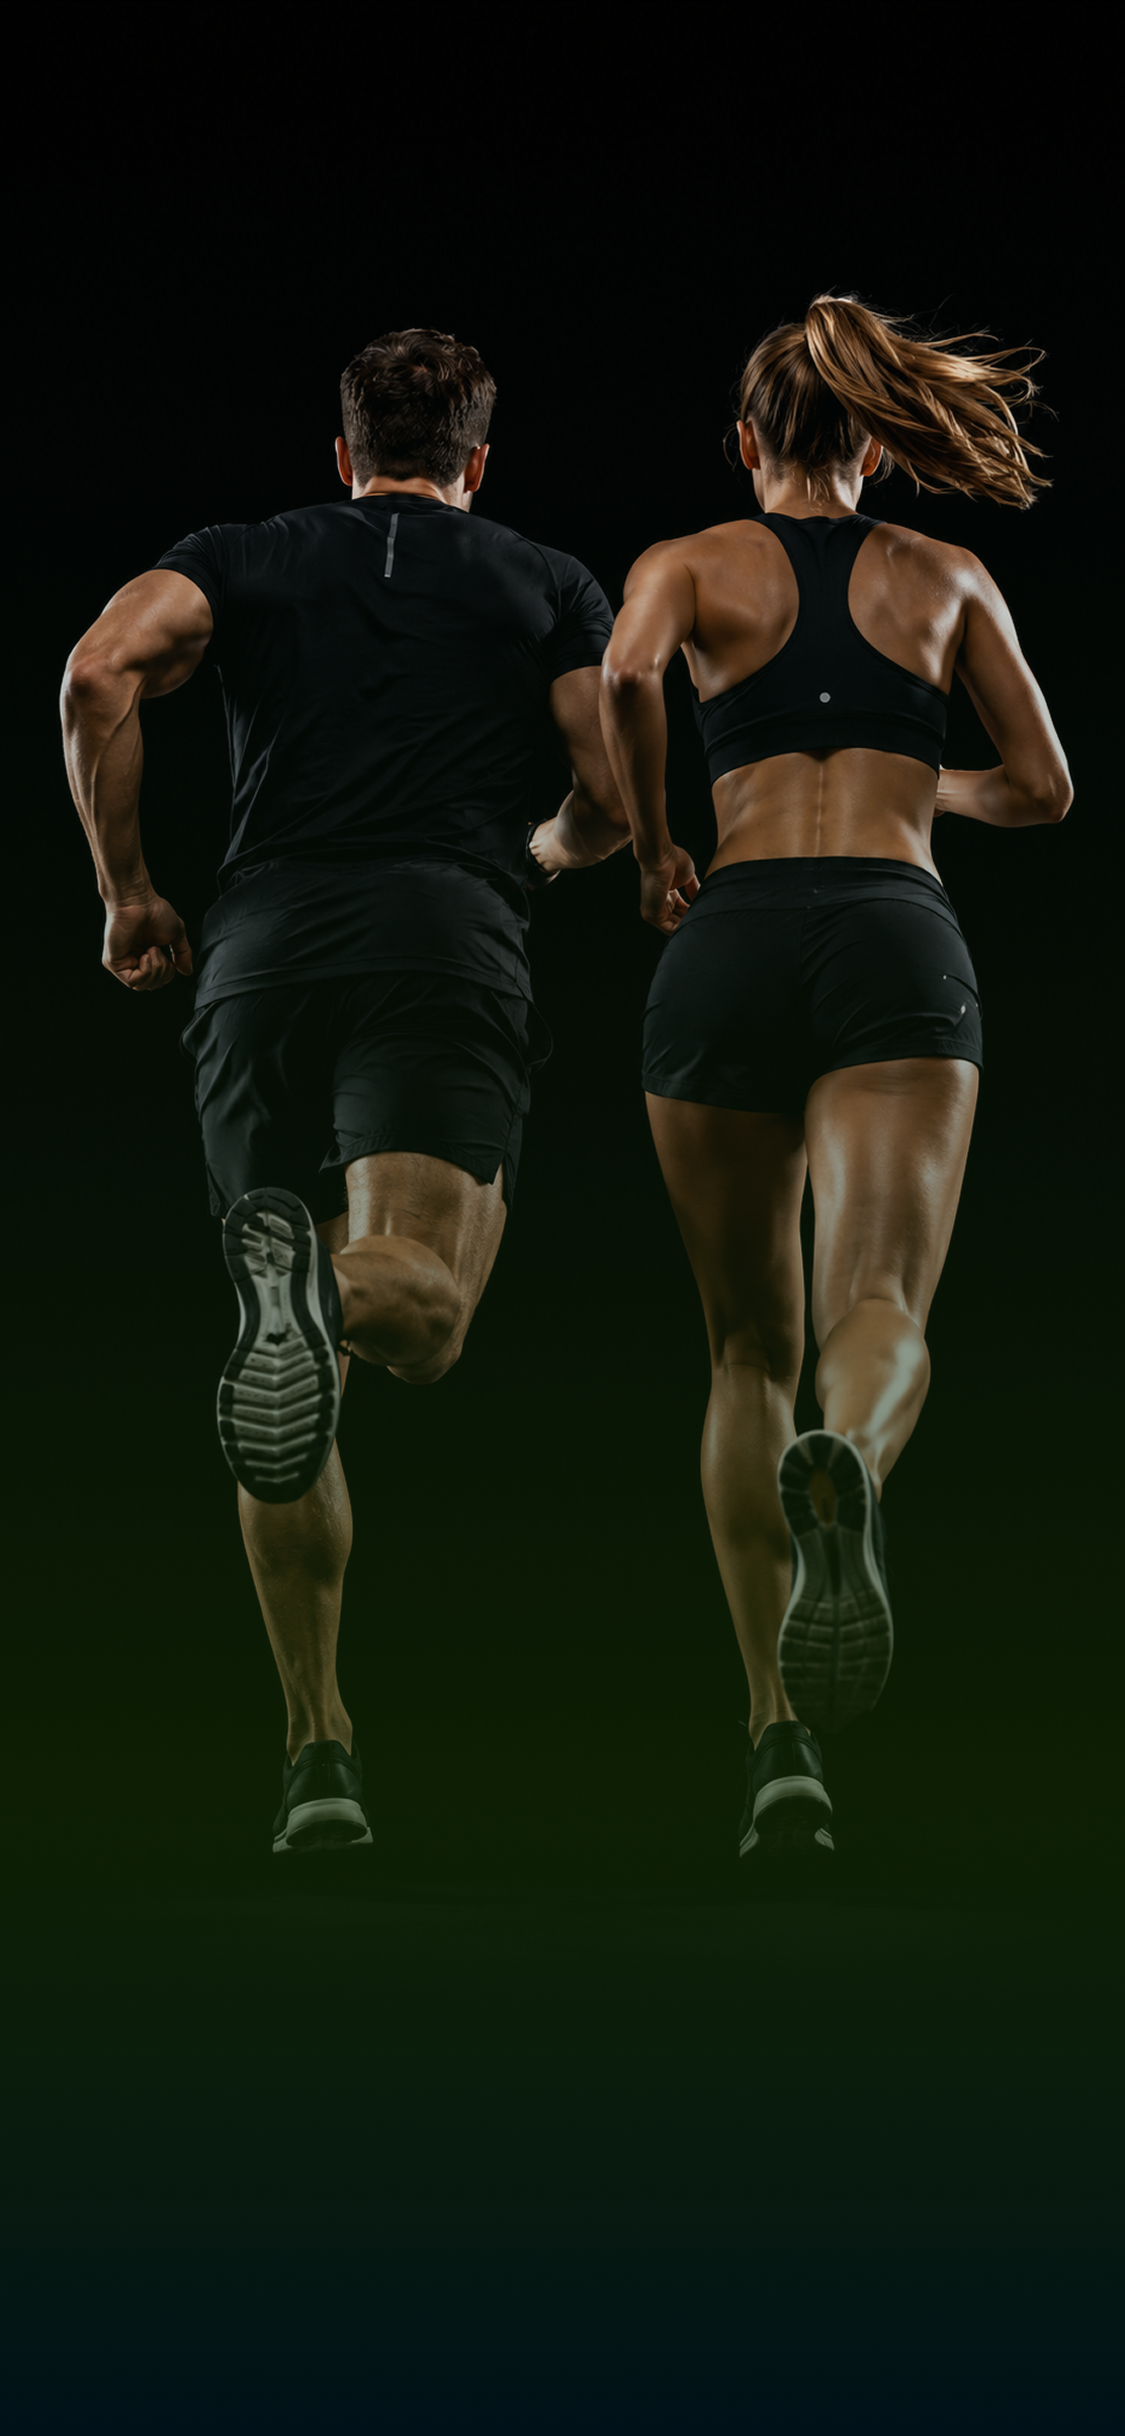
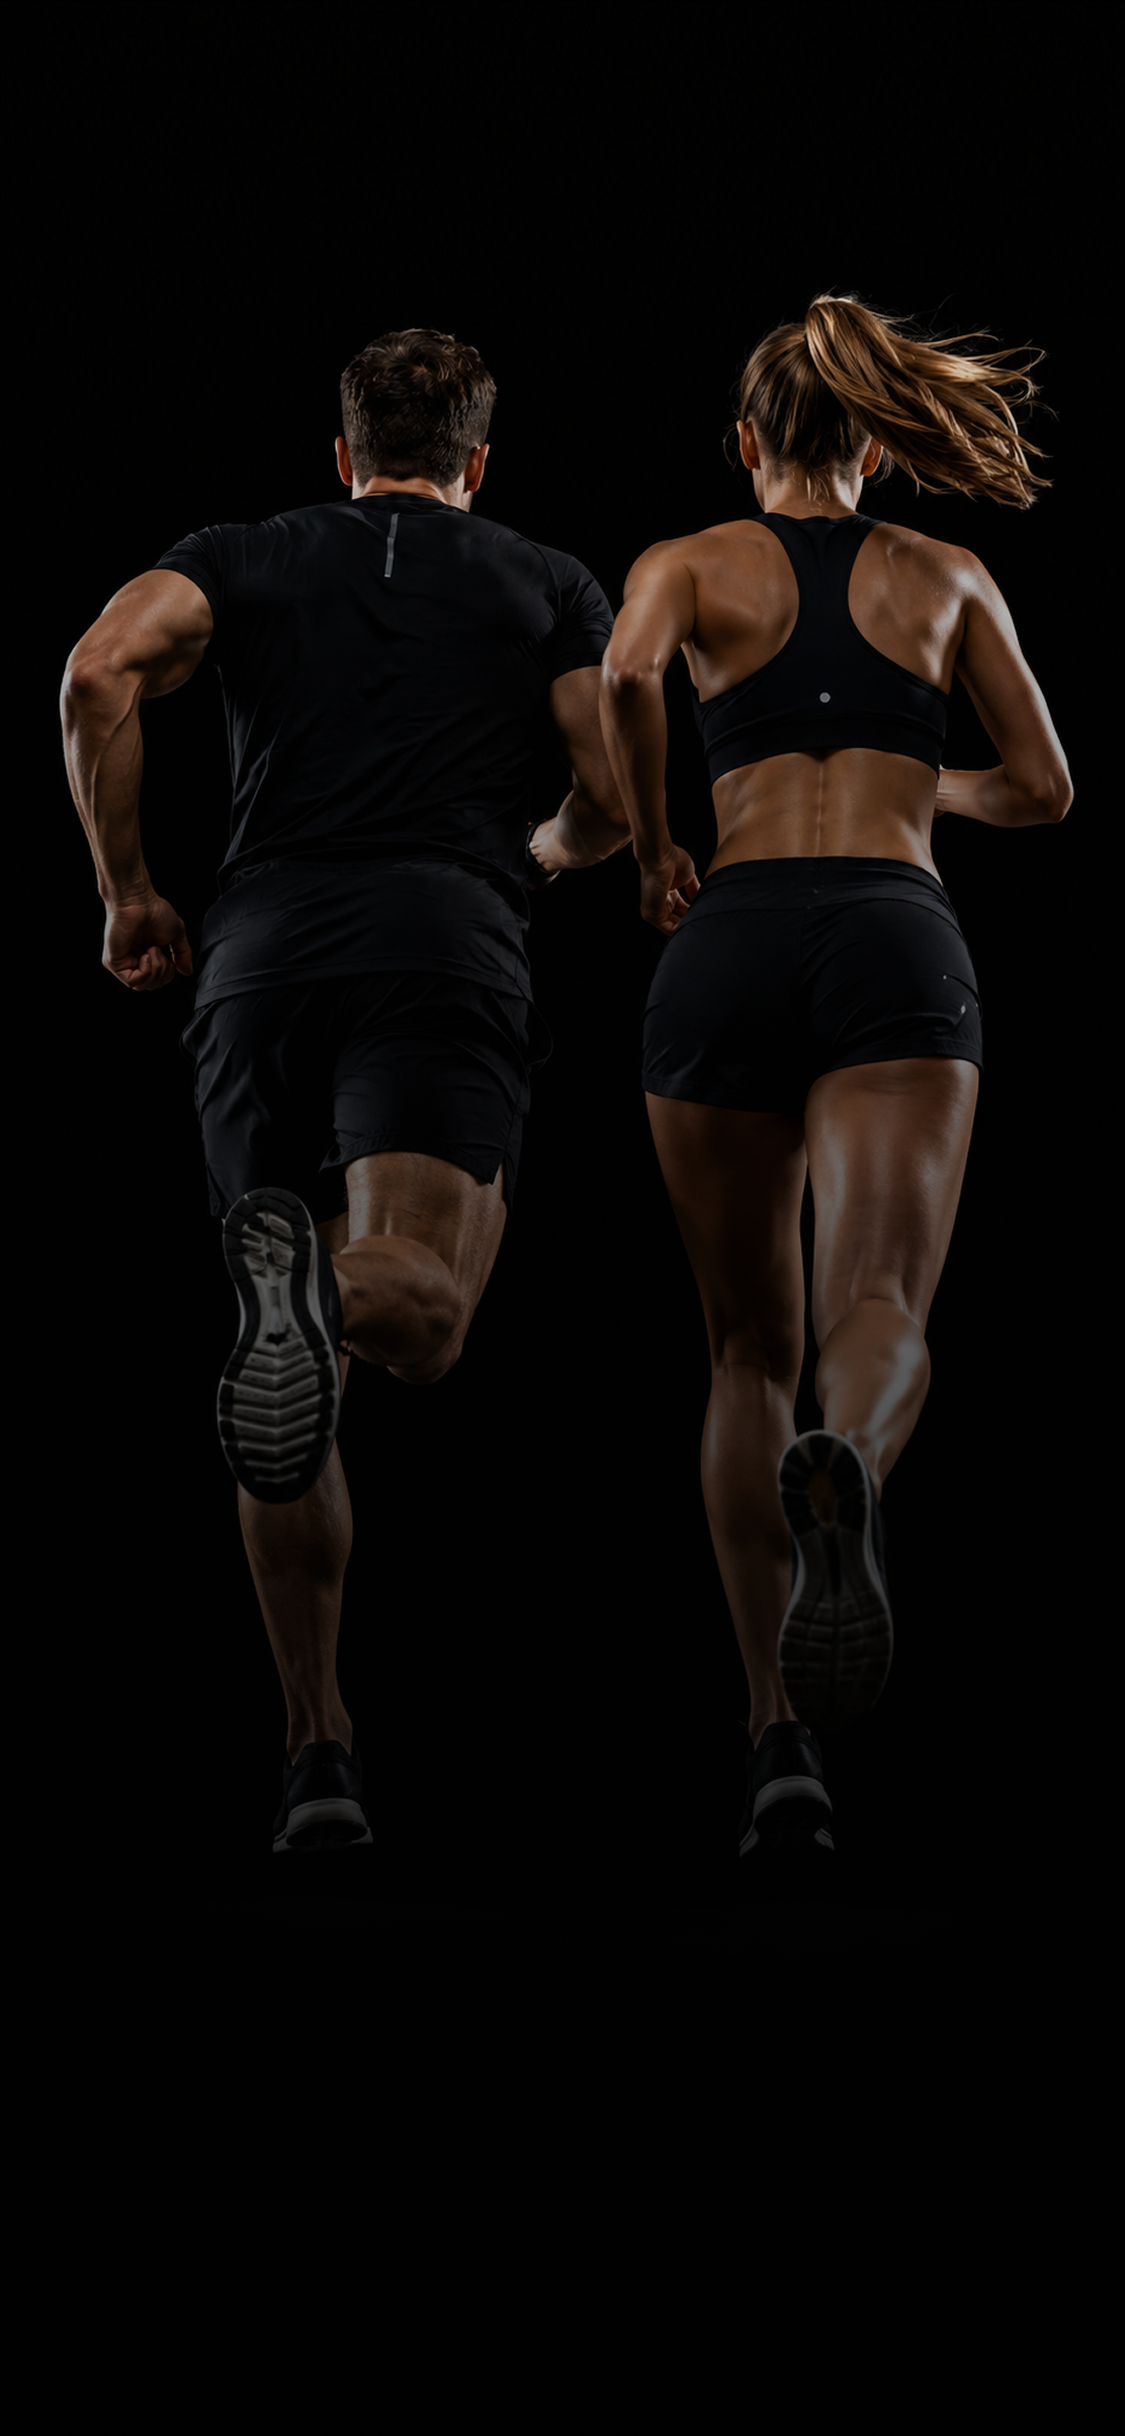
fix:修改调整UI样式

diff --git a/pedometer/lib/feature/subscription/views/onboarding_page.dart b/pedometer/lib/feature/subscription/views/onboarding_page.dart
@@ -343,8 +343,8 @@ class _GuideContinueButton extends StatelessWidget {
         height: 56.h,
         decoration: BoxDecoration(
           borderRadius: BorderRadius.circular(AppRadius.full),
-          gradient: const LinearGradient(
-            colors: [Color(0xFF32F12C), Color(0xFFB8F915)],
+          gradient: LinearGradient(
+            colors: [AppColors.brandGreenLight, AppColors.brandGreen],
           ),
           boxShadow: [
             BoxShadow(
@@ -386,8 +386,8 @@ class _PremiumTrialButton extends StatelessWidget {
         height: 52.h,
         decoration: BoxDecoration(
           borderRadius: BorderRadius.circular(AppRadius.full),
-          gradient: const LinearGradient(
-            colors: [Color(0xFF32F12C), Color(0xFFB8F915)],
+          gradient: LinearGradient(
+            colors: [AppColors.brandGreenLight, AppColors.brandGreen],
           ),
         ),
         child: Stack(

diff --git a/pedometer/lib/feature/subscription/views/subscription_page.dart b/pedometer/lib/feature/subscription/views/subscription_page.dart
@@ -471,8 +471,8 @@ class _SubscribeButton extends StatelessWidget {
         height: 52.h,
         decoration: BoxDecoration(
           borderRadius: BorderRadius.circular(AppRadius.full),
-          gradient: const LinearGradient(
-            colors: [Color(0xFF32F12C), Color(0xFFB8F915)],
+          gradient: LinearGradient(
+            colors: [AppColors.brandGreenLight, AppColors.brandGreen],
           ),
         ),
         child: Stack(